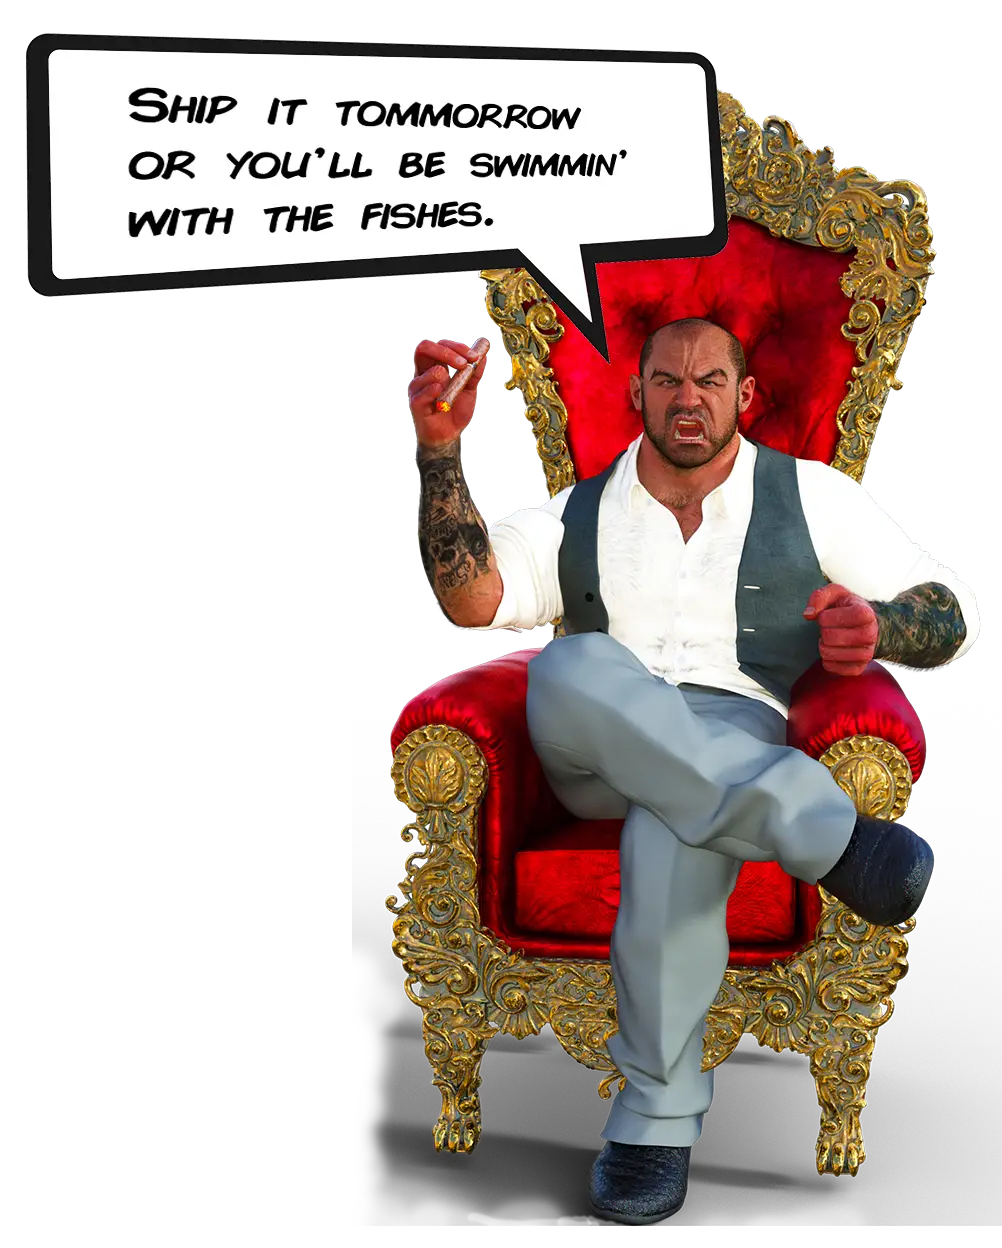
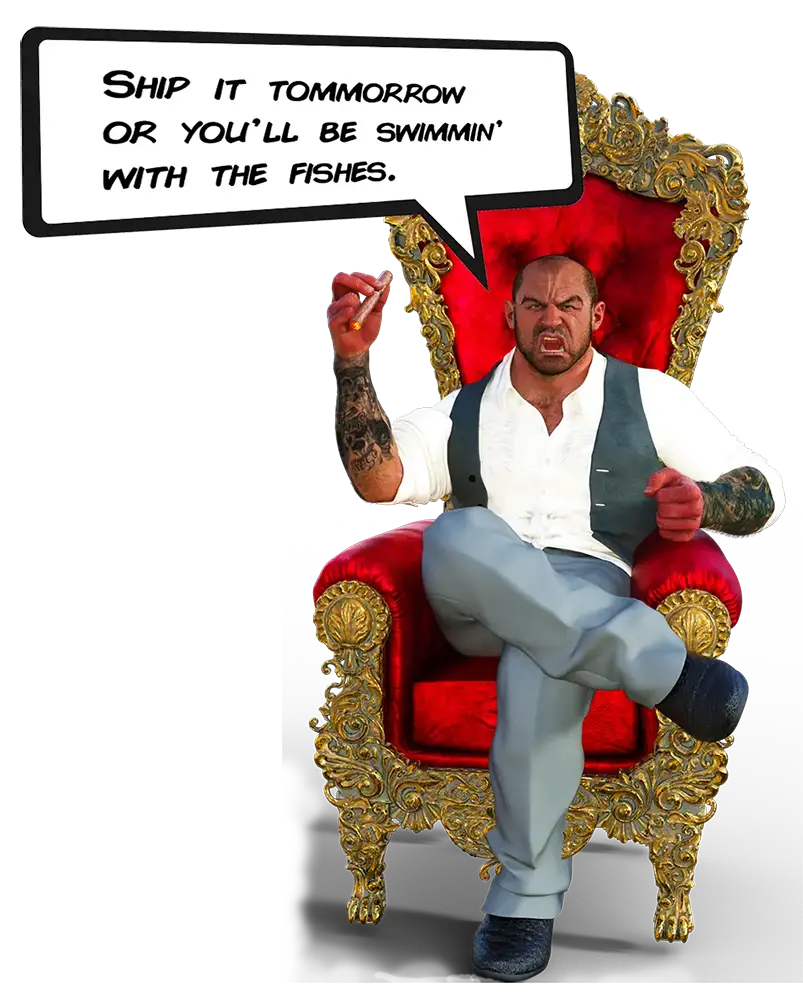
fixing image sizes and I caught a grammatical error

diff --git a/index.html b/index.html
@@ -71,6 +71,7 @@
         </div>
         <button class="modal-close is-large" aria-label="close"></button>
       </div>
+      
     </section>
     <section class="section container">
       <div class="columns is-mobile is-centered dynamic-type">
@@ -164,7 +165,7 @@
             at the chance.
           </p>
           <p class="block">
-            Software development as a profession has been around for 50 over
+            Software development as a profession has been around for over 50
             years now. As an industry, we’re pretty good at teaching new
             languages, and basic theory like algorithms, data structures, Big O
             notation and the like. But there is a difference between software
